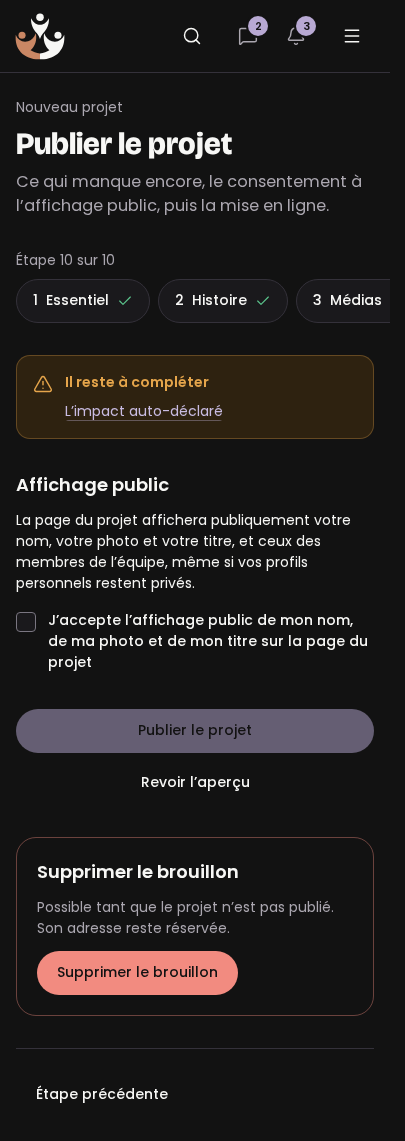
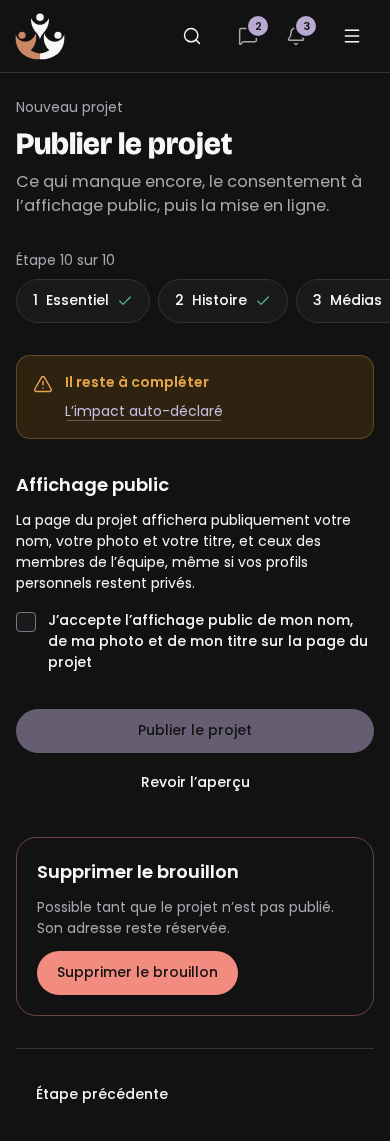
fix(ui): keep hidden descriptions and long axis labels inside a phone
A visually hidden description of a disabled action took the full width
of the action bar and pushed the page 15 px sideways on a phone (the
publication step of the project wizard); the labels of a chart with a
few categories now wrap under their bar instead of touching the next.

diff --git a/apps/web/src/components/ui/bar-chart.tsx b/apps/web/src/components/ui/bar-chart.tsx
@@ -305,7 +305,10 @@ export function BarChart({
             <span
               key={datum.key}
               className={cn(
-                'flex min-w-0 justify-center whitespace-nowrap',
+                'flex min-w-0 justify-center',
+                // A few categories (statuses): a long label wraps under its bar, never on its
+                // neighbour; many periods keep one line, one label out of two on a phone.
+                thin ? 'whitespace-nowrap' : 'text-center text-balance',
                 thin && (count - 1 - index) % 2 === 1 && 'max-sm:invisible',
               )}
             >

diff --git a/apps/web/src/components/ui/form-actions.tsx b/apps/web/src/components/ui/form-actions.tsx
@@ -9,7 +9,9 @@ export function FormActions({ children, className }: { children: ReactNode; clas
   return (
     <div
       className={cn(
-        'flex flex-col gap-2 *:w-full sm:flex-row-reverse sm:flex-wrap sm:justify-start sm:*:w-auto',
+        // A visually hidden description (the reason of a disabled button) keeps its 1 px: at
+        // full width it would stretch the page sideways on a phone.
+        'flex flex-col gap-2 *:not-[.sr-only]:w-full sm:flex-row-reverse sm:flex-wrap sm:justify-start sm:*:not-[.sr-only]:w-auto',
         className,
       )}
     >
